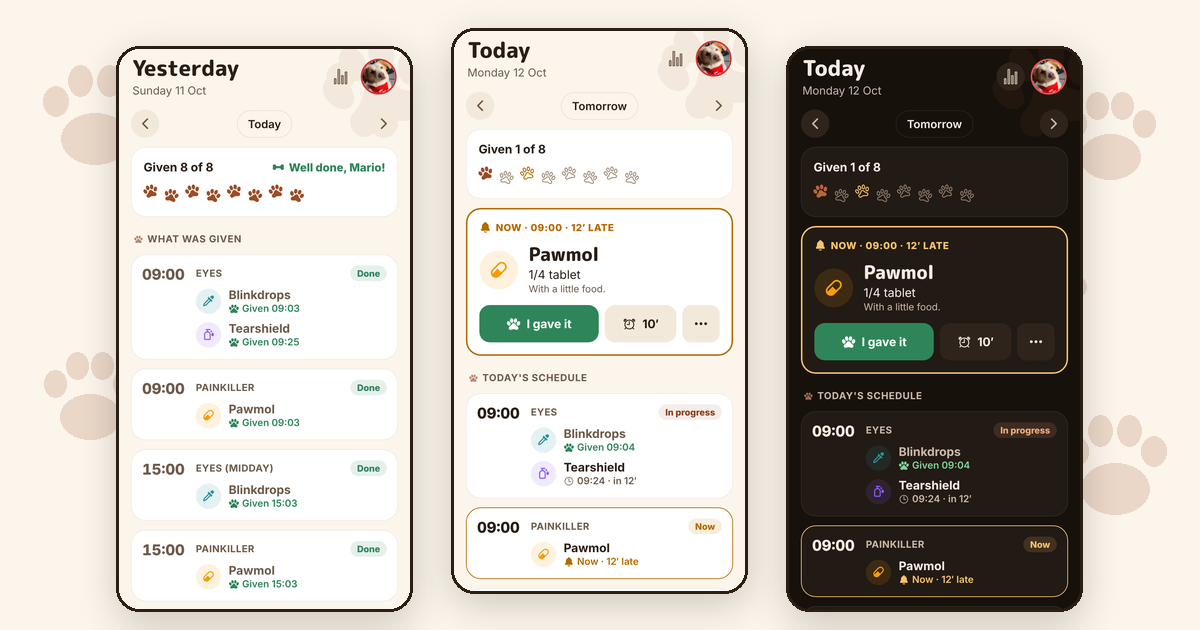
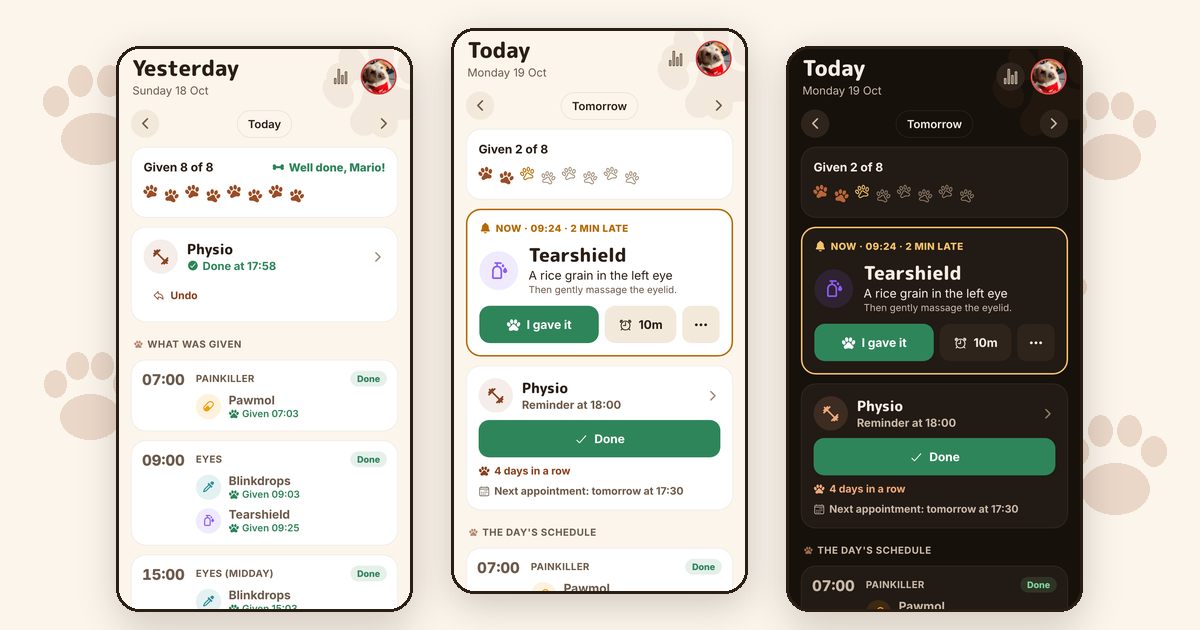
Screenshots from the English app in every section that needs one
Claude-Session: https://claude.ai/code/session_01BBHdHCMtGfUdkoybeubcWh

diff --git a/posts/marios-helper-v3.md b/posts/marios-helper-v3.md
@@ -40,6 +40,8 @@ To get there I needed two Expo services and one GitHub Action:
 - **EAS Build** builds the APK in the cloud and gives me a link to install it.
 - **EAS Update** sends JavaScript changes over the air. The app downloads them by itself and shows "There's a new version" with a restart button.
 
+![The Today screen with a card at the top: "There's a new version. It's already downloaded. Tap to restart the app with the new version." and a Restart button.](/blog/marios-helper-v3-update.png)
+
 The Action runs on every merge to main and works out which of the two it needs. It takes a fingerprint of the native side of the app (native libraries, permissions, config). If there's already a build with that fingerprint, only JavaScript changed, so it publishes an update. If not, it starts a new build and puts the install link in the run summary. The app's runtime version is that same fingerprint, so an update can never land on a build that can't run it.
 
 I've checked that updates change the code, not the data, so the day's schedule and the medicines I've already given are still there after an update.
@@ -62,11 +64,15 @@ And for anything native there's a test copy of the app. Adding a `test-build` la
 
 Before the SDK 57 upgrade reached the real app, I installed it over the old version in Mario TEST, without opening it, and the reminder the old version had set rang on time. At first I got the same notification twice, so I asked Claude to add a log to the app that notes every notification it shows, with or without sound, and why. With the log, Claude found what caused it.
 
+![The notification log in the settings. Each line has the time, what happened and why: the Blinkdrops reminder showing, "I gave it" tapped on it, and the Tearshield reminder set for 20 minutes later.](/blog/marios-helper-v3-log.png)
+
 ## Reminders based on when I actually gave the medicine
 
 The schedule is made of routines. A routine is a few medicines one after the other at set times, like Blinkdrops and then Tearshield 20 minutes later, at 09:00 and 21:00.
 
 The 20 minutes start when I tap "I gave it", not at 09:00. If I give Blinkdrops at 09:04, Tearshield rings at 09:24, with a countdown notification in between. Same with the painkiller. "Every 8 hours" means 8 hours after the dose I actually gave, so if one is an hour late, the rest of the day moves with it.
+
+![Left: the Eyes routine at 09:00 and 21:00, Blinkdrops and then Tearshield 20 minutes later. Right: the day's schedule. Blinkdrops was given at 09:04, so Tearshield is at 09:24. The painkiller was given at 08:22, so the next one moved from 15:00 to 16:22.](/blog/marios-helper-v3-chain.png)
 
 At first the app didn't do this. When I gave the painkiller late one morning, the next dose stayed at its planned time, so I sent Claude this from my phone:
 
@@ -75,6 +81,8 @@ At first the app didn't do this. When I gave the painkiller late one morning, th
 Claude found the issue and fixed it remotely. After that change, the next doses move with a late one. It took two more fixes to get it fully right, and I reported both the same way, from my phone.
 
 The app plans every dose a week ahead. So I can see my whole day in advance and move or skip one medicine, a whole chain, or the whole day. For example, an hour later because we slept in, or earlier because I want an early night.
+
+![Left: tomorrow's doses, one by one. Right: tapping the 09:00 Eyes dose gives "Earlier", "Later" and "Skip", "Change the time just this once" and "Skip the whole dose".](/blog/marios-helper-v3-plan.png)
 
 And the notifications:
 
@@ -91,6 +99,8 @@ This is useful to know even if you don't build apps. On my OnePlus, "Allow backg
 
 The app can't change that setting itself. Instead, it has a checklist in the settings: notifications, exact alarms and battery, how each one is set right now, with a button that opens the right screen to fix it. The first version labelled the battery line with what it *should* be, so it looked like everything was fine when it wasn't. Now every line says how things actually are.
 
+![The checklist in the settings. Notifications, medicine reminders and exact alarms have green ticks. "Battery saving limits the app" has a warning, what to do, and an Open button.](/blog/marios-helper-v3-battery.png)
+
 ## Making it Mario's
 
 Since changes are now quick to make, I also asked for things I wouldn't have made time for before.
@@ -103,9 +113,7 @@ I also asked for a custom sound for the reminders, and had fun generating a bark
 
 The app is in English too now, so other people can use it. It follows the phone's language. Claude writes every new text in both languages, right where it's used, so there's no separate translation file to keep up to date.
 
-**TODO: retake the screenshots below from the English version of the app.**
-
-![The Today screen in the new theme: a paw print for each of the day's doses, the medicine that's due now, and the day's routines. Next to it, a finished day with every paw filled in and "Well done, Mario!"](/blog/marios-helper-v3-screens.png)
+![The Today screen in the new theme: a paw print for each of the day's doses, the medicine that's due now, and the physio card. Next to it, a finished day with every paw filled in and "Well done, Mario!"](/blog/marios-helper-v3-screens.png)
 
 ## Mario's physio
 
@@ -114,6 +122,8 @@ Mario started physio recently, so I sent this from my phone:
 > Mario now does physio, please add tracking for his physio training. We might go more detailed soon (count exercises etc.) but for now I just want to ensure I do it daily and track physio appointments.
 
 Now the Today screen has a physio card with a "Done" button, and a reminder comes if we haven't done the exercises by the evening. The last four weeks show as paw prints, and his appointments have their own list, with a reminder an hour before.
+
+![Left: the Today screen with the physio card: "Not done yet", a Done button, "4 days in a row" and the next appointment. Right: the last four weeks as paw prints, and the list of appointments.](/blog/marios-helper-v3-physio.png)
 
 ## What still isn't great
 
